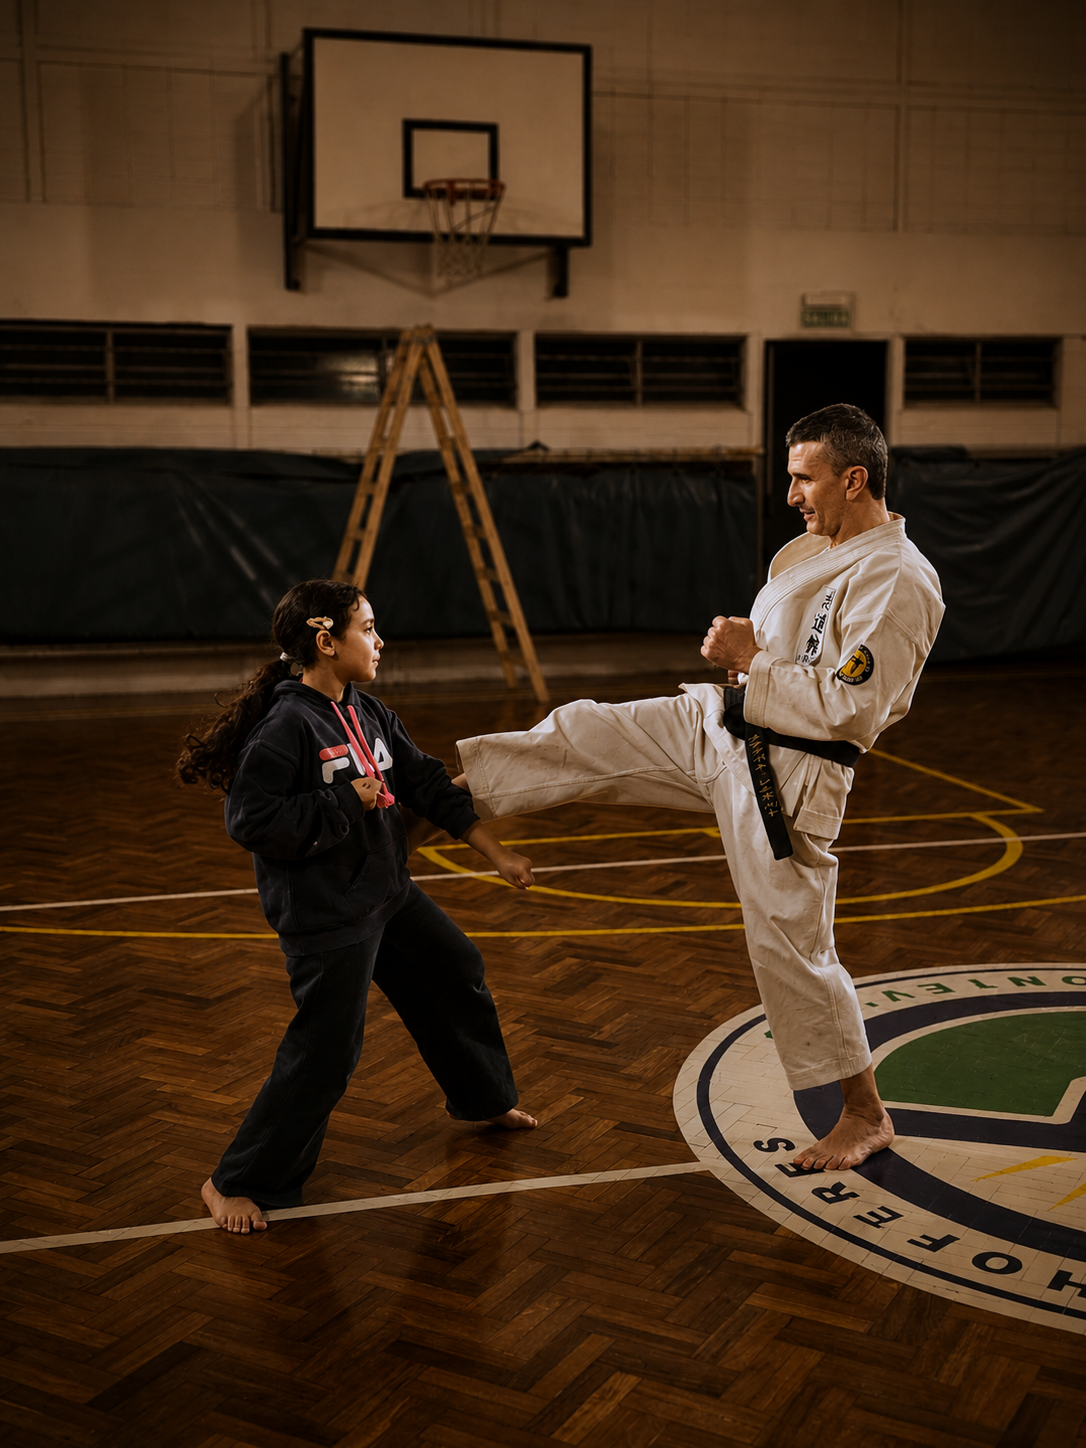
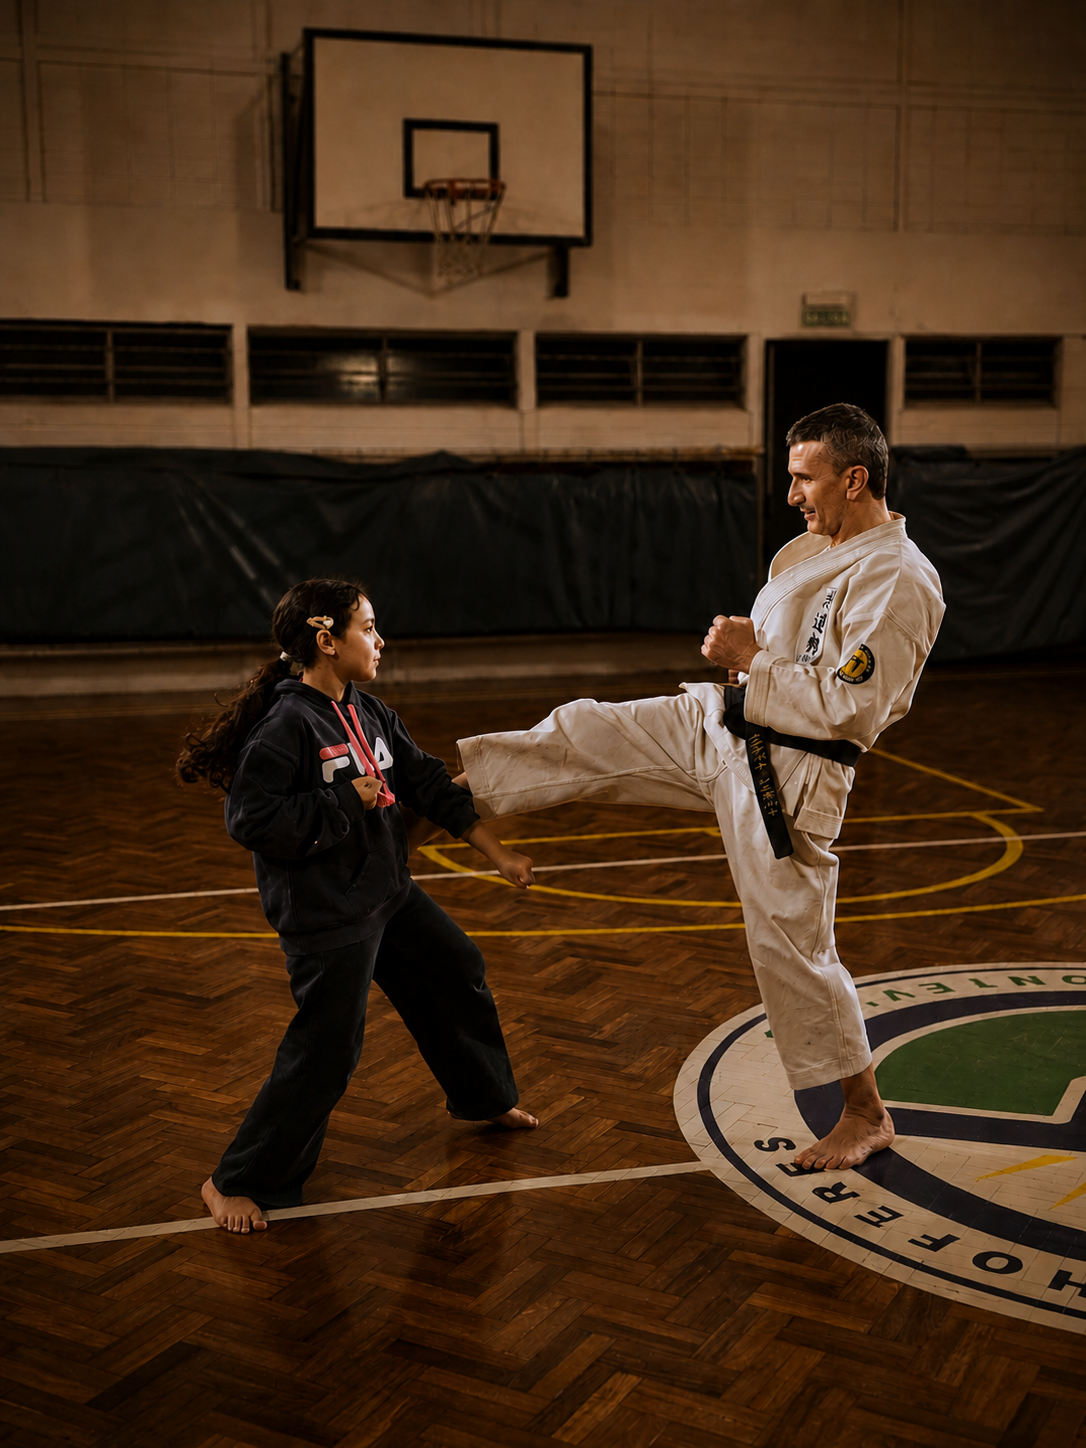
general progress

diff --git a/src/components/Navbar.tsx b/src/components/Navbar.tsx
@@ -12,6 +12,7 @@ const links = [
 
 export default function Navbar() {
   const [scrolled, setScrolled] = useState(false)
+  const [menuOpen, setMenuOpen] = useState(false)
 
   useEffect(() => {
     const handleScroll = () => setScrolled(window.scrollY > 60)
@@ -21,6 +22,7 @@ export default function Navbar() {
 
   const scrollTo = (e: React.MouseEvent<HTMLAnchorElement>, href: string) => {
     e.preventDefault()
+    setMenuOpen(false)
     const el = document.querySelector(href)
     if (el) el.scrollIntoView({ behavior: 'smooth' })
   }
@@ -32,12 +34,23 @@ export default function Navbar() {
         animate={{ opacity: 1 }}
         transition={{ duration: 1, delay: 0.5 }}
         className={`fixed top-0 left-0 right-0 z-50 transition-colors duration-700 ${
-          scrolled ? 'bg-dojo-black/95 backdrop-blur-sm' : 'bg-transparent'
+          scrolled || menuOpen ? 'bg-dojo-black/95 backdrop-blur-sm' : 'bg-transparent'
         }`}
       >
-        <div className="flex items-center justify-between px-8 md:px-12 h-20 max-w-[1800px] mx-auto">
-          <a href="#" onClick={(e) => scrollTo(e, '#')} className="font-display text-xl md:text-2xl tracking-[0.15em] text-dojo-cream hover:text-white transition-colors duration-500">
-            KOBAYASHI <span className="text-dojo-muted font-body text-xs tracking-[0.3em] align-middle ml-2">Uruguay</span>
+        <div className="flex items-center justify-between px-5 md:px-12 h-20 max-w-[1800px] mx-auto">
+          <a
+            href="#"
+            onClick={(e) => scrollTo(e, '#')}
+            className="flex items-center gap-2 md:gap-3 font-display text-lg md:text-2xl tracking-[0.15em] text-dojo-cream hover:text-white transition-colors duration-500"
+          >
+            <img
+              src="/images/logoKOBAYASHI.png"
+              alt="Kobayashi"
+              className="h-8 md:h-10 w-auto"
+            />
+            <span>
+              KOBAYASHI <span className="text-dojo-muted font-body text-[10px] md:text-xs tracking-[0.3em] align-middle ml-1 md:ml-2">Uruguay</span>
+            </span>
           </a>
 
           <nav className="hidden md:flex items-center gap-8">
@@ -52,8 +65,47 @@ export default function Navbar() {
               </a>
             ))}
           </nav>
+
+          {/* Mobile hamburger */}
+          <button
+            onClick={() => setMenuOpen((open) => !open)}
+            aria-label="Abrir menú"
+            aria-expanded={menuOpen}
+            className="md:hidden flex flex-col items-center justify-center gap-1.5 w-10 h-10"
+          >
+            <span className={`block w-6 h-px bg-dojo-cream transition-transform duration-300 ${menuOpen ? 'translate-y-[3.5px] rotate-45' : ''}`} />
+            <span className={`block w-6 h-px bg-dojo-cream transition-opacity duration-300 ${menuOpen ? 'opacity-0' : ''}`} />
+            <span className={`block w-6 h-px bg-dojo-cream transition-transform duration-300 ${menuOpen ? '-translate-y-[3.5px] -rotate-45' : ''}`} />
+          </button>
         </div>
-        {scrolled && (
+
+        {/* Mobile dropdown menu */}
+        <AnimatePresence>
+          {menuOpen && (
+            <motion.div
+              initial={{ opacity: 0, height: 0 }}
+              animate={{ opacity: 1, height: 'auto' }}
+              exit={{ opacity: 0, height: 0 }}
+              transition={{ duration: 0.3 }}
+              className="md:hidden overflow-hidden bg-dojo-black/95 backdrop-blur-sm border-t border-dojo-cream/10"
+            >
+              <div className="flex flex-col px-5 py-4 gap-1">
+                {links.map(({ label, href }) => (
+                  <a
+                    key={href}
+                    href={href}
+                    onClick={(e) => scrollTo(e, href)}
+                    className="text-dojo-cream/70 hover:text-dojo-cream py-3 text-sm tracking-[0.15em] uppercase transition-colors duration-500 border-b border-dojo-cream/5 last:border-0"
+                  >
+                    {label}
+                  </a>
+                ))}
+              </div>
+            </motion.div>
+          )}
+        </AnimatePresence>
+
+        {scrolled && !menuOpen && (
           <motion.div
             initial={{ scaleX: 0 }}
             animate={{ scaleX: 1 }}

diff --git a/src/components/Location.tsx b/src/components/Location.tsx
@@ -10,8 +10,13 @@ export default function Location() {
               <p className="text-sm md:text-base tracking-[0.2em] uppercase text-dojo-muted mb-10">
                 Dónde estamos
               </p>
-              <h2 className="font-display text-3xl md:text-5xl leading-tight text-dojo-cream mb-8">
-                Club Centro Protección de Choferes
+              <h2 className="font-display text-3xl md:text-5xl leading-tight text-dojo-cream mb-8 flex items-center gap-4">
+                <img
+                  src="/images/logoCentro de proteccion de choferes.png"
+                  alt="Centro Protección de Choferes"
+                  className="h-12 md:h-16 w-auto"
+                />
+                <span>Club Centro Protección de Choferes</span>
               </h2>
               <div className="space-y-3 text-dojo-cream/70 text-sm md:text-base leading-relaxed">
                 <p>Soriano 1227</p>

diff --git a/src/App.tsx b/src/App.tsx
@@ -1,8 +1,7 @@
 import Navbar from './components/Navbar'
 import Hero from './components/Hero'
-import Tradition from './components/Tradition'
-import Benefits from './components/Benefits'
 import TrainingExperience from './components/TrainingExperience'
+import Benefits from './components/Benefits'
 import Senseis from './components/Senseis'
 import Disciplines from './components/Disciplines'
 
@@ -19,9 +18,8 @@ export default function App() {
       <Navbar />
       <main>
         <Hero />
-        <Tradition />
-        <Benefits />
         <TrainingExperience />
+        <Benefits />
         <Senseis />
         <Disciplines />
         <SchedulePricing />
